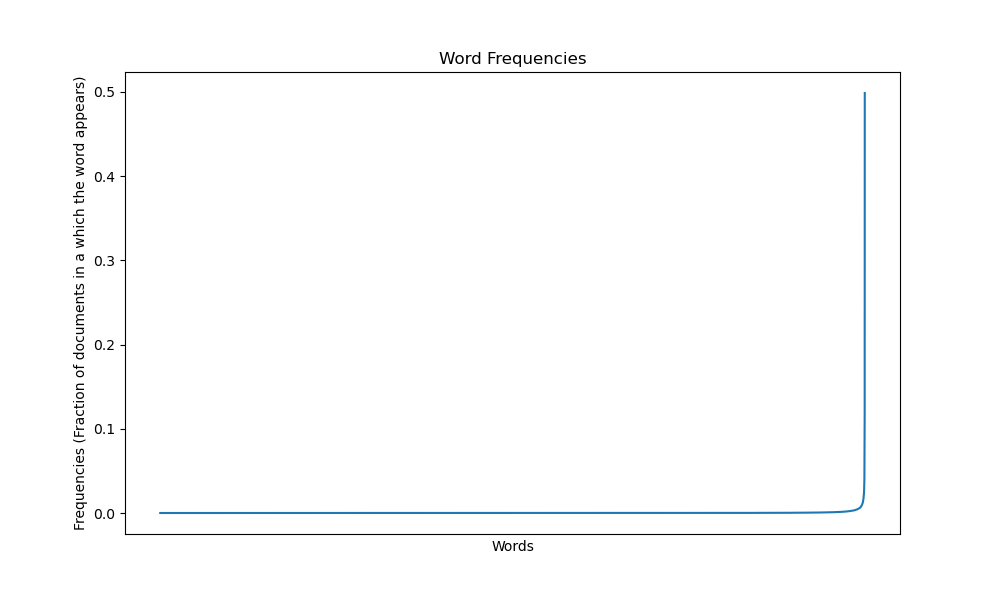
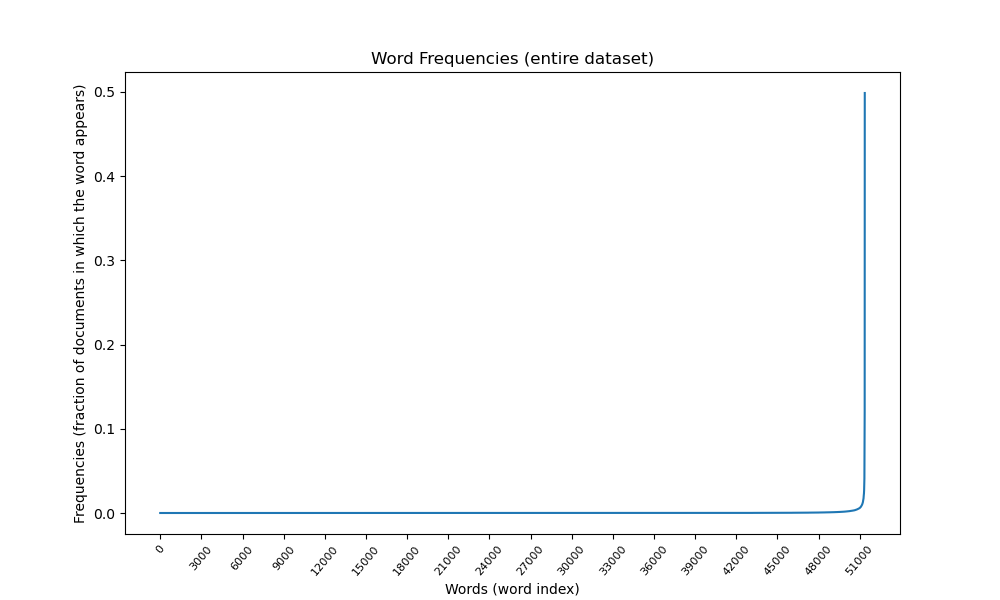
Foramtting changes

diff --git a/txt_mining.py b/txt_mining.py
@@ -4,10 +4,12 @@ import pandas as pd
 from sklearn.feature_extraction.text import ENGLISH_STOP_WORDS
 from sklearn.feature_extraction.text import CountVectorizer
 import matplotlib.pyplot as plt
+from matplotlib.axis import Axis 
 from mpl_toolkits.axes_grid1.inset_locator import inset_axes, mark_inset, InsetPosition
 from sklearn.naive_bayes import MultinomialNB
 from sklearn.model_selection import train_test_split
 from sklearn import metrics
+from prettytable import PrettyTable
 
 # Reading in the text_data csv file as a df (vectorised)
 df = pd.read_csv('data/text_data/Corona_NLP_train.csv')
@@ -15,16 +17,18 @@ df = pd.read_csv('data/text_data/Corona_NLP_train.csv')
 # 1.1
 # Computing the possible sentiment values
 unique_sentiment_values = df.Sentiment.unique()
-print(unique_sentiment_values)
+#print(unique_sentiment_values)
 
 # The second most popular sentiment in the tweets  
 sentiment_values_count =  df.Sentiment.value_counts()
-print("The second most popular sentiment in the tweets is: " + str(list(sentiment_values_count.items())[1][0]))
+second_popular_sentiment = list(sentiment_values_count.items())[1][0]
+#print("The second most popular sentiment in the tweets is: " + second_popular_sentiment)
 
 # Date with the greatest number of extremely positive tweets
 max_ep_tweets_date = df[df.Sentiment == 'Extremely Positive']
 max_ep_tweets_date_list = max_ep_tweets_date.groupby('TweetAt')['Sentiment'].value_counts().sort_values(ascending=False).reset_index(name = 'Counts')
-print("Date of the max amount of extremely positive: " + max_ep_tweets_date_list['TweetAt'].iloc[0])
+date_of_max_ep_tweets = max_ep_tweets_date_list['TweetAt'].iloc[0]
+#print("Date of the max amount of extremely positive: " + date_of_max_ep_tweets)
 
 # Converting the messages to lower case replace non-alphabetic characters with whitespaces and ensure that the words of a message are seperated by a single whitespace
 df['OriginalTweet_modified'] = df.OriginalTweet.str.lower()\
@@ -38,25 +42,25 @@ token_count = df.OriginalTweet_modified.str.split(expand = True).stack().value_c
 
 # Counting the total number of all words (including repetitions) and distinct words:
 def word_count(input_series):
-    all_total, distinct_total = str(sum(token_count)), str(len(token_count))
+    all_total, distinct_total = str(sum(input_series)), str(len(input_series))
     return all_total, distinct_total
 
 all_words, distinct_words = word_count(token_count)
-print("Number of all words (including repetitions): %s" %all_words)
-print("Number of distinct words: %s" %distinct_words)
+#print("Number of all words (including repetitions): %s" %all_words)
+#print("Number of distinct words: %s" %distinct_words)
 # The 10 most frequent words in the corpus
-print(token_count.head(10))
+#print(token_count.head(10))
 
 # Remove stop words, words with ≤ 2 characters and recalculate the number of all words (including repetitions) and the 10 most frequent words in the modified corpus.
 df.OriginalTweet_modified = df.OriginalTweet_modified.apply(lambda x: [item for item in x.split() if item not in ENGLISH_STOP_WORDS and len(item) > 2]).apply(lambda x: ' '.join(x))
 
 # Frequency of every word in the corpus
-token_count = df.OriginalTweet_modified.str.split(expand = True).stack().value_counts()
-all_words, distinct_words = word_count(token_count)
+token_count_after = df.OriginalTweet_modified.str.split(expand = True).stack().value_counts()
+all_words_after, distinct_words_after = word_count(token_count_after)
 
 # Counting the total number of all words (including repetitions)
-print("Number of all words (including repetitions): %s" %all_words)
-print(token_count.head(10))
+#print("Number of all words (including repetitions): %s" %all_words_after)
+#print(token_count_after.head(10))
 
 # 1.3
 # Plot a histogram with word frequencies, where the horizontal axis corresponds to words, while the vertical axis indicates the fraction of documents in a which a word appears. 
@@ -70,17 +74,33 @@ vector = vectorizer.fit_transform(document)
 vector_summed = sum(vector.toarray() > 0).tolist()
 words_and_sums = sorted(zip(vector_summed, vectorizer.get_feature_names()), key= lambda x : x[0])
 
-ordered_words = [x[1] for x in words_and_sums]
-ordered_frequencies = [x[0]/len(df.OriginalTweet) for x in words_and_sums]
+ordered_words_total = [x[1] for x in words_and_sums]
+ordered_frequencies_total = [x[0]/len(df.OriginalTweet) for x in words_and_sums]
+
+ordered_words_100 = [x[1] for x in words_and_sums[-100:]]
+ordered_frequencies_100 = [x[0]/len(df.OriginalTweet) for x in words_and_sums[-100:]]
+
+ordered_words_total_len = len(ordered_frequencies_total)
+x_range_total = range(ordered_words_total_len)
 
 plt.figure(figsize=(10,6))
-plt.plot(ordered_words,ordered_frequencies)
-plt.xticks([])   
-
-plt.title('Word Frequencies')
-plt.xlabel('Words')
-plt.ylabel('Frequencies (Fraction of documents in a which the word appears)')
+plt.plot(x_range_total,ordered_frequencies_total)
+plt.xticks(np.arange(0, ordered_words_total_len, 3000))
+plt.xticks(rotation = 50)
+plt.tick_params(axis='x', which='major', labelsize=8)
+plt.title('Word Frequencies (entire dataset)')
+plt.xlabel('Words (word index)')
+plt.ylabel('Frequencies (fraction of documents in which the word appears)')
 plt.savefig('word_frequency.png')
+
+plt.figure(figsize=(10,6))
+plt.plot(ordered_words_100,ordered_frequencies_100)
+plt.xticks(rotation = 90)
+plt.tick_params(axis='x', which='major', labelsize=6)
+plt.title('Word Frequencies (top 100 word frequencies)')
+plt.xlabel('Words')
+plt.ylabel('Frequencies (fraction of documents in which the word appears)')
+plt.savefig('word_frequency_100.png')
 
 # 1.4
 # This task can be done individually from the previous three. 
@@ -102,6 +122,36 @@ y_pred_class = nb.predict(X)
 
 # Calculate accuracy of class predictions
 accuracy = metrics.accuracy_score(y, y_pred_class)
-print(accuracy)
+error_rate = str(round((1 - accuracy) * 100,2)) + "%"
+#print(error_rate)
 
+# FORMATTING OUTPUT USING PRETTYTABLE
+# OUTPUT FOR 1.1
+table_1 = PrettyTable()
+table_1.title = 'Text Mining 1.1'
+table_1.field_names = ["Question", "Findings"]
+table_1.add_row(['Possible sentiments of a tweet: ', unique_sentiment_values])
+table_1.add_row(['Second most popular sentiment: ', second_popular_sentiment])
+table_1.add_row(['Date with greatest extremely positive tweets: ', date_of_max_ep_tweets])
+table_1.align = "l"
+print(table_1)
 
+# OUTPUT FOR 1.2
+table_2 = PrettyTable()
+table_2.title = 'Text Mining 1.2'
+table_2.field_names = ["Question", "Findings"]
+table_2.add_row(['Total number of all words (including repetitions):',  all_words])
+table_2.add_row(['Total number of all distinct words:',  distinct_words])
+table_2.add_row(['10 most frequent words in the corpus:', [word for word in token_count[:10].keys()]])
+table_2.add_row(['Total number of all words (including repetitions) (After stop words and words with <= 2 characters have been removed):',  all_words_after])
+table_2.add_row(['10 most frequent words in the corpus (After stop words and words with <= 2 characters have been removed):', [word for word in token_count_after[:10].keys()]])
+table_2.align = "l"
+print(table_2)
+
+# OUTPUT FOR 1.4
+table_3 = PrettyTable()
+table_3.title = 'Text Mining 1.3'
+table_3.field_names = ["Question", "Findings"]
+table_3.add_row(["Multinomial Naive Bayes classifier error rate:", error_rate])
+table_2.align = "l"
+print(table_3)
